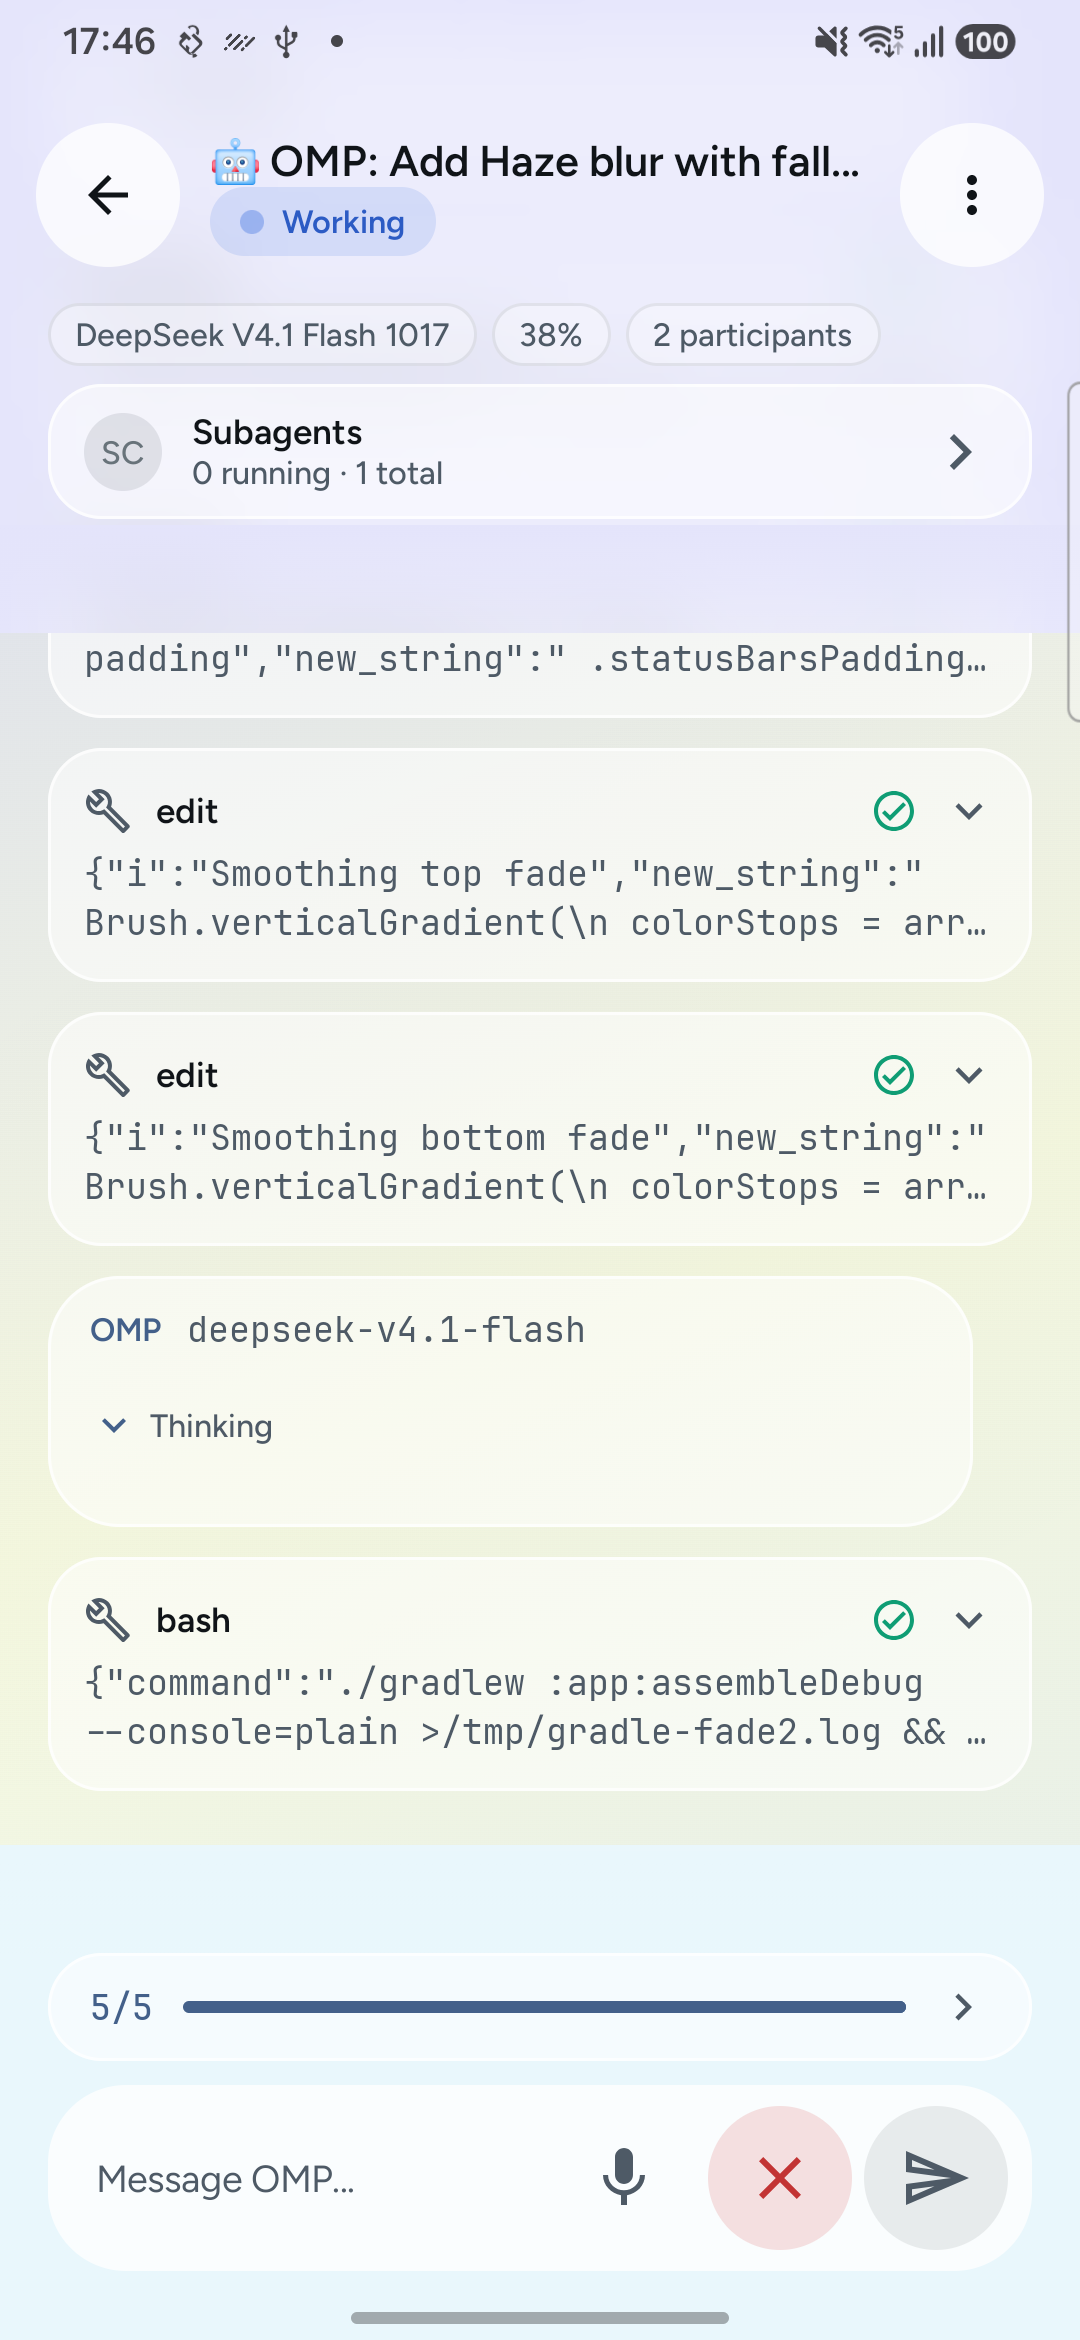
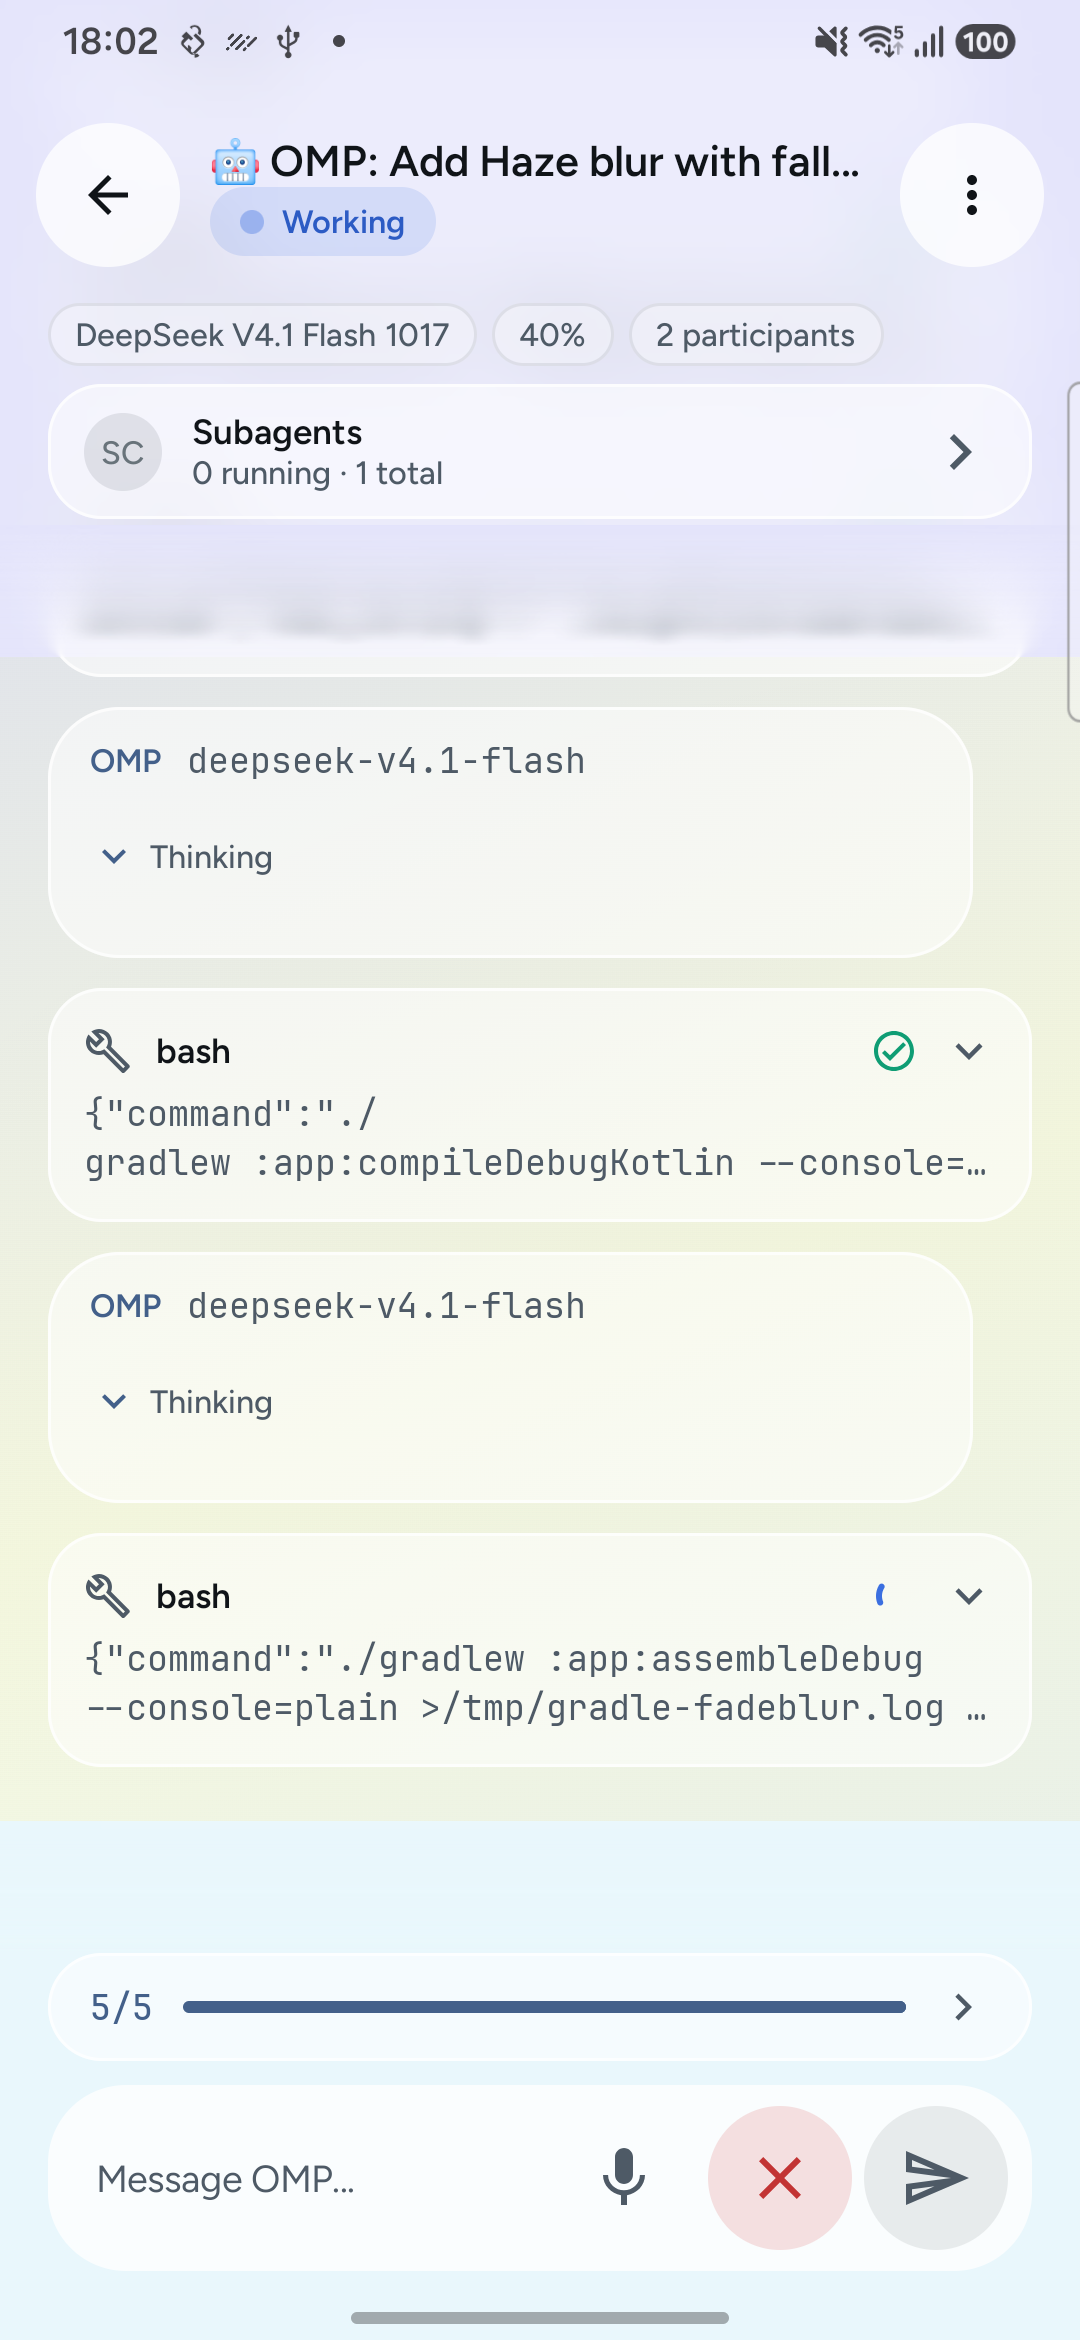
Fade chat into fixed chrome padding

diff --git a/app/src/main/kotlin/com/ompsessionconnect/ui/detail/SessionDetailScreen.kt b/app/src/main/kotlin/com/ompsessionconnect/ui/detail/SessionDetailScreen.kt
@@ -139,6 +139,7 @@ import com.ompsessionconnect.ui.theme.LiveGlassShapes
 import com.ompsessionconnect.ui.theme.LocalLiveGlass
 import com.ompsessionconnect.ui.theme.LocalSessionStatusColors
 import dev.chrisbanes.haze.HazeInput
+import dev.chrisbanes.haze.HazeProgressive
 import dev.chrisbanes.haze.hazeSource
 import dev.chrisbanes.haze.rememberHazeState
 import dev.chrisbanes.haze.blur.HazeBlurStyle
@@ -222,7 +223,7 @@ fun SessionDetailScreen(
   }
 }
 
-private val ChromeFade = 36.dp
+private val ChromeFade = 44.dp
 
 private fun chromeBlurStyle(field: Color, dark: Boolean): HazeBlurStyle = HazeBlurStyle {
   blurRadius(24.dp)
@@ -230,6 +231,32 @@ private fun chromeBlurStyle(field: Color, dark: Boolean): HazeBlurStyle = HazeBl
   colorEffects(
     listOf(
       HazeColorEffect.tint(field.copy(alpha = if (dark) 0.45f else 0.35f)),
+    ),
+  )
+  blurredEdgeTreatment(BlurredEdgeTreatment.Rectangle)
+  noiseFactor(0f)
+}
+
+private fun fadeBlurStyle(field: Color, top: Boolean): HazeBlurStyle = HazeBlurStyle {
+  blurRadius(24.dp)
+  backgroundColor(Color.Transparent)
+  colorEffects(
+    listOf(
+      HazeColorEffect.tint(
+        Brush.verticalGradient(
+          colorStops = if (top) {
+            arrayOf(0f to field, 0.55f to field.copy(alpha = 0.55f), 1f to Color.Transparent)
+          } else {
+            arrayOf(0f to Color.Transparent, 0.45f to field.copy(alpha = 0.55f), 1f to field)
+          },
+        ),
+      ),
+    ),
+  )
+  progressive(
+    HazeProgressive.verticalGradient(
+      startIntensity = if (top) 1f else 0f,
+      endIntensity = if (top) 0f else 1f,
     ),
   )
   blurredEdgeTreatment(BlurredEdgeTreatment.Rectangle)
@@ -361,6 +388,8 @@ private fun SessionDetailContent(
   val bottomBlurStyle = remember(tokens.fieldC, tokens.dark) {
     chromeBlurStyle(tokens.fieldC, tokens.dark)
   }
+  val topFadeStyle = remember(tokens.fieldA) { fadeBlurStyle(tokens.fieldA, top = true) }
+  val bottomFadeStyle = remember(tokens.fieldC) { fadeBlurStyle(tokens.fieldC, top = false) }
   fun chromeBlur(style: HazeBlurStyle): Modifier =
     if (blurAvailable) {
       Modifier.hazeBlur(
@@ -369,6 +398,15 @@ private fun SessionDetailContent(
       )
     } else {
       Modifier
+    }
+  fun chromeFade(style: HazeBlurStyle, fallback: Brush): Modifier =
+    if (blurAvailable) {
+      Modifier.hazeBlur(
+        input = HazeInput.Sources(hazeState),
+        style = style,
+      )
+    } else {
+      Modifier.background(fallback)
     }
 
   Box(modifier = Modifier.fillMaxSize()) {
@@ -545,12 +583,15 @@ private fun SessionDetailContent(
           .fillMaxWidth()
           .height(ChromeFade)
           .zIndex(3f)
-          .background(
-            Brush.verticalGradient(
-              colorStops = arrayOf(
-                0f to tokens.fieldA,
-                0.55f to tokens.fieldA.copy(alpha = 0.55f),
-                1f to Color.Transparent,
+          .then(
+            chromeFade(
+              topFadeStyle,
+              Brush.verticalGradient(
+                colorStops = arrayOf(
+                  0f to tokens.fieldA,
+                  0.55f to tokens.fieldA.copy(alpha = 0.55f),
+                  1f to Color.Transparent,
+                ),
               ),
             ),
           ),
@@ -654,12 +695,15 @@ private fun SessionDetailContent(
           .fillMaxWidth()
           .height(ChromeFade)
           .zIndex(3f)
-          .background(
-            Brush.verticalGradient(
-              colorStops = arrayOf(
-                0f to Color.Transparent,
-                0.45f to tokens.fieldC.copy(alpha = 0.55f),
-                1f to tokens.fieldC,
+          .then(
+            chromeFade(
+              bottomFadeStyle,
+              Brush.verticalGradient(
+                colorStops = arrayOf(
+                  0f to Color.Transparent,
+                  0.45f to tokens.fieldC.copy(alpha = 0.55f),
+                  1f to tokens.fieldC,
+                ),
               ),
             ),
           ),
